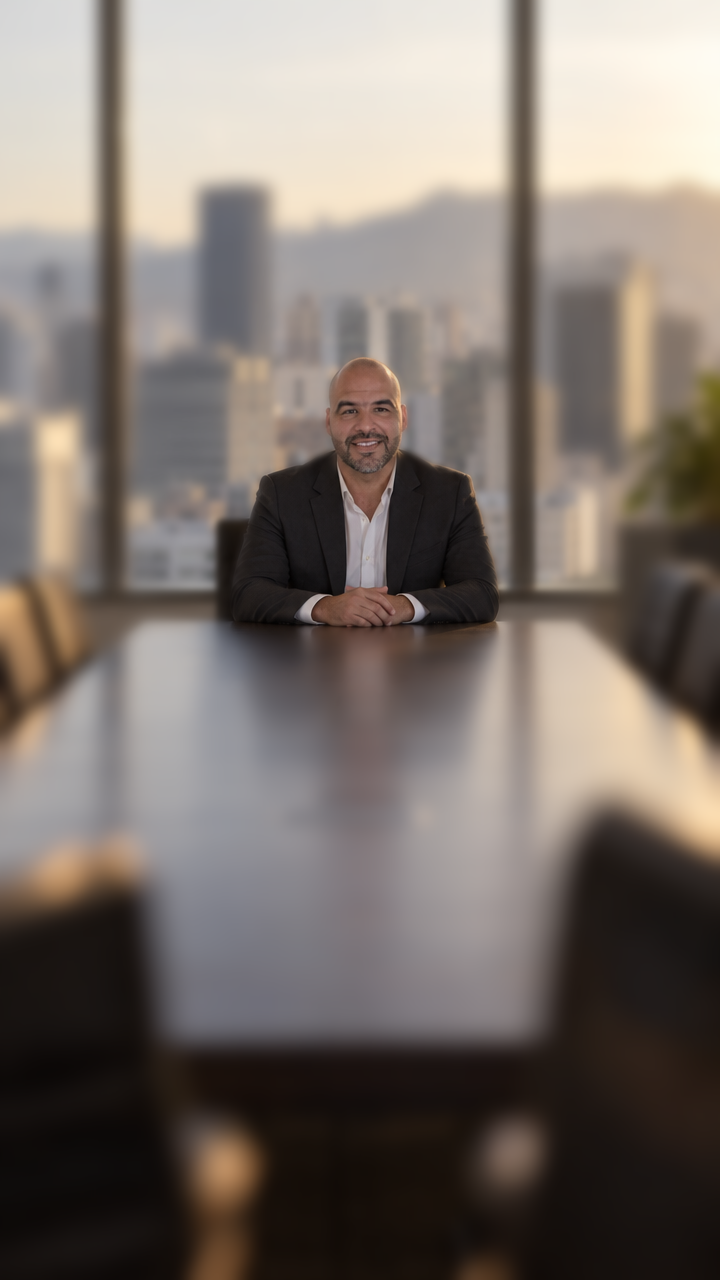
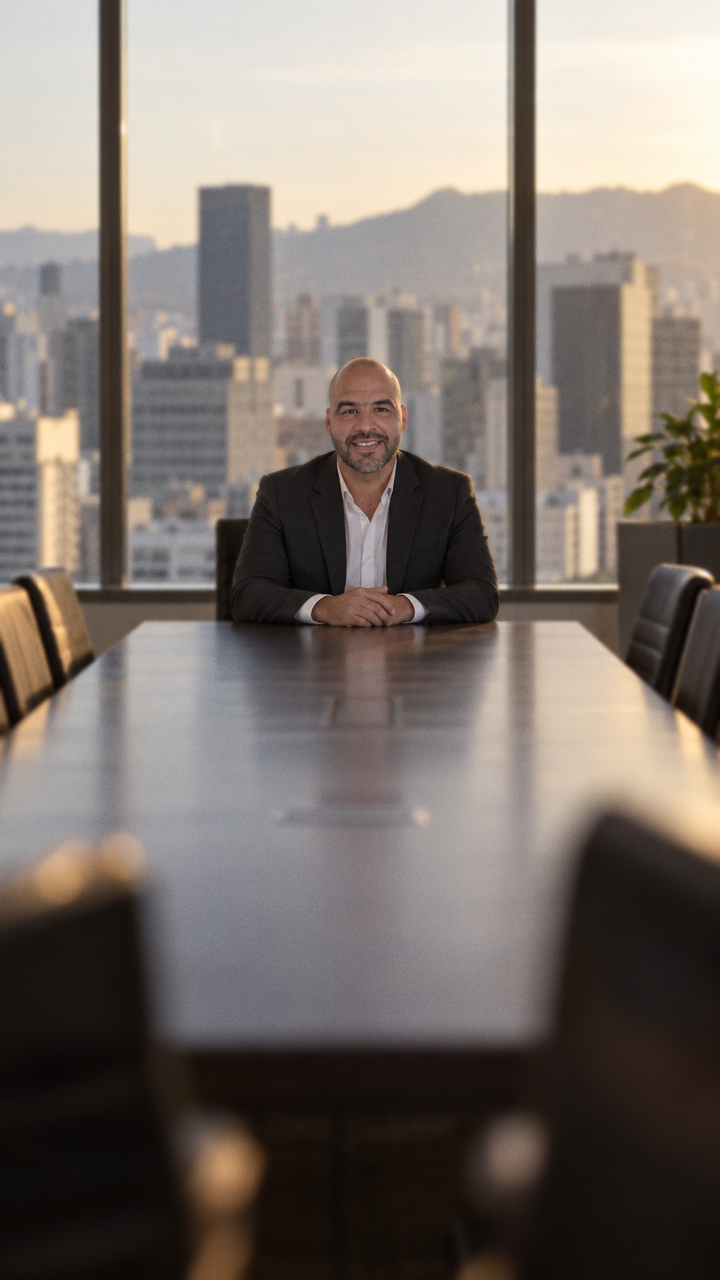
Post 22: desfoque leve e grão, mais realista
Claude-Session: https://claude.ai/code/session_016UNNimnYsNx4a66oMiDygB

diff --git a/posts/22-antes-eu-escuto/_foto.html b/posts/22-antes-eu-escuto/_foto.html
@@ -3,7 +3,7 @@
 @font-face{font-family:P;font-weight:700;src:url('file:///home/claude/boni-instagram-posts/fontes/Poppins-Bold.ttf')}
 *{margin:0;padding:0;box-sizing:border-box}
 .s{width:1080px;height:1350px;position:relative;overflow:hidden;background:#000;font-family:P,sans-serif;color:#fff}
-.bg{position:absolute;left:0;top:-230px;width:1080px;filter:sepia(.25) saturate(1.1) brightness(.92) contrast(1.06)}
+.bg{position:absolute;left:0;top:-220px;width:1080px;filter:sepia(.25) saturate(1.1) brightness(.92) contrast(1.06)}
 .ov{position:absolute;inset:0;background:linear-gradient(180deg,rgba(0,0,0,.55) 0%,rgba(0,0,0,0) 18%,rgba(0,0,0,0) 46%,rgba(0,0,0,.88) 68%,#000 100%)}
 .lg{position:absolute;left:56px;top:46px;height:80px;mix-blend-mode:lighten}
 .gold{background:linear-gradient(100deg,#c98a1a,#ffe27a 45%,#f5b82e 70%,#d98f1a);-webkit-background-clip:text;color:transparent}
@@ -14,4 +14,4 @@
 .p{font-size:34px;font-weight:500;line-height:1.38;color:#f0e6cc}
 .btn{position:absolute;left:70px;bottom:100px;padding:20px 48px;border-radius:60px;background:linear-gradient(100deg,#c98a1a,#ffe27a 50%,#e0a12a);color:#1a1205;font-size:34px;font-weight:700}
 .av{position:absolute;right:56px;bottom:112px;width:420px;text-align:right;font-size:19px;color:#a8996d;line-height:1.35}
-</style></head><body><section class="s" id="s1"><img class="bg" src="file:///home/claude/boni-instagram-posts/fotos/avatar/reuniao-longe-aberta.png"><div class="ov"></div><img class="lg" src="file:///home/claude/boni-instagram-posts/marca/logo-horizontal.png"><div class="blk"><div class="tg">BASTIDOR</div><div class="h">Antes de indicar, <span class="gold">eu escuto.</span></div><div class="ln"></div><div class="p">Quem vai usar, onde você se trata e quanto cabe no bolso. É por aí que começa o plano certo.</div></div><div class="btn">Comenta PLANO</div><div class="av">Carências, rede e valores variam por operadora e produto.</div></section></body></html>
+</style></head><body><section class="s" id="s1"><img class="bg" src="file:///home/claude/boni-instagram-posts/fotos/avatar/reuniao-longe.png"><div class="ov"></div><img class="lg" src="file:///home/claude/boni-instagram-posts/marca/logo-horizontal.png"><div class="blk"><div class="tg">BASTIDOR</div><div class="h">Antes de indicar, <span class="gold">eu escuto.</span></div><div class="ln"></div><div class="p">Quem vai usar, onde você se trata e quanto cabe no bolso. É por aí que começa o plano certo.</div></div><div class="btn">Comenta PLANO</div><div class="av">Carências, rede e valores variam por operadora e produto.</div></section></body></html>
